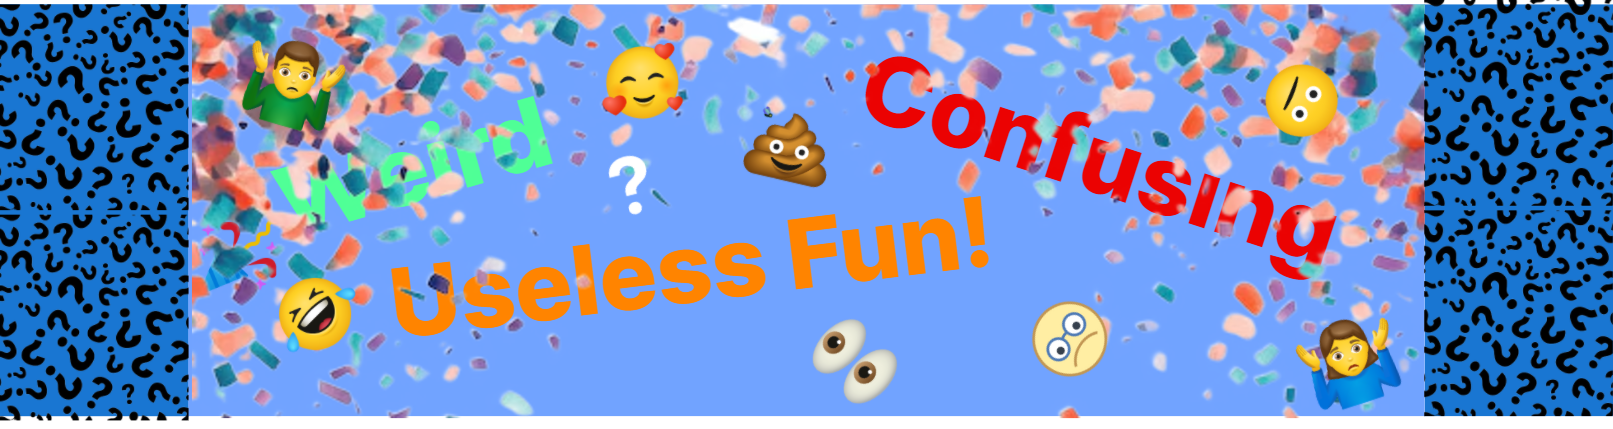
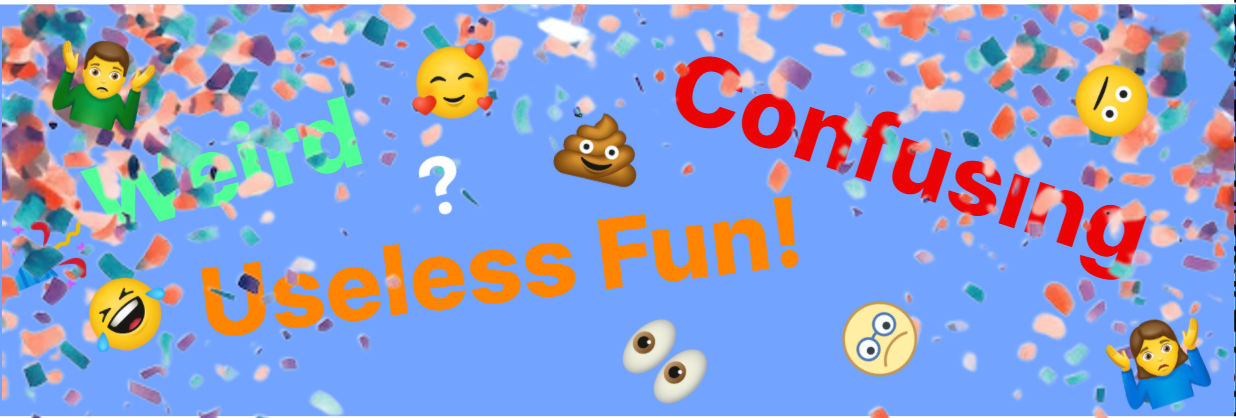
small update

diff --git a/index.html b/index.html
@@ -4,13 +4,14 @@
     <title>Random & Confusing</title> 
     <script src=""></script>
     <link href = "styles/style1.css" rel ="stylesheet" type = 'text/css'/>
+    <link href = "styles/home.css" rel ="stylesheet" type = 'text/css'/>
     <script src = 'javascript/test.js' type = "text/javascript"></script>
     <script src = 'javascript/bar.js' type = "text/javascript"></script>
 </head> 
 <body id = "body"> 
 <main>
     <header>
-        <img src = 'images/title.png' style = "width:100%;">
+        <img src = 'images/title.png' style = "width:101%; margin-top: -1rem; margin-bottom: 0.2rem; margin-left: -0.5rem; margin-right: -0.5rem;">
     </header>
 
     <e id = 'TOP_BAR'>
@@ -21,9 +22,14 @@
         </video>
     <div class = 'container'> 
 <center>
-    <h1>beans</h1>
+
+    <div style ="background-color: rgba(255, 255, 255, 0.3); width: 70%; height: 20%; border-width: 100px;
+    border-color: rgba(255, 255, 255, 255); border-radius: 10px;">
+    <h1>WELCOME!</h1>
+    <p>This website has absoulutly no reason to exist... but it does</p>
+    </div>
+
     <div class="container">
-        <h3>PROGRESS BAR</h3>
         <div class="progress">
             <p class="counter">0%</p>
             <div class="bar"></div>

diff --git a/javascript/riot.js b/javascript/riot.js
@@ -180,6 +180,8 @@ function end_game(winner = 1){
 
     el.innerText = end_text;
 
+    document.getElementById('restart').style.visibility =  'visible';
+
 }
 
 
@@ -336,6 +338,23 @@ function start_game(){
     input();
 
     document.getElementById('start_button').style.visibility =  'hidden';
+
+    game_started = true;
+}
+
+function restart_game(){
+    document.getElementById('restart').style.visibility =  'hidden';
+    scores[1]  = 0;
+    scores[2]  = 0;
+    score_board.text(scores[1].toString() + ("\xa0".repeat(50)) + scores[2].toString());
+    var el = document.getElementById('winner_screen');
+    el.style.visibility = 'hidden';
+    //[400, 140]
+    //[1000, 140]
+    player1.pos.x = 400;
+    player1.pos.y = 140;
+    player2.pos.x = 1000;
+    player2.pos.y = 140;
 
     game_started = true;
 }

diff --git a/free_vbucks.html b/free_vbucks.html
@@ -22,11 +22,13 @@
         </div>
     </center>
 
+
     <center>
+        <p style = "position: absolute; left: 40%;">use 'A' and 'D' to move the bar left and right</p>
         <div class = 'triangle'></div>
     </center>
 
-    <script>set_bar(); do_physics();  start_bar();</script>
+    <script>set_bar(); do_physics(); start_bar();</script>
 </body> 
 </main>
 </html> 

diff --git a/styles/style1.css b/styles/style1.css
@@ -42,8 +42,9 @@ h1 {
 .download_button{
     width: 800px;
     height: 800px;
-    background-image: url("../images/free_icecream.jpg");
-    background-repeat:round;
+    background-image: url("../images/sus.png");
+    background-color: rgba(0, 0, 0, 0);
+    background-repeat: round;
     border: none;
     animation-name: download_animation;
 }

diff --git a/styles/riot.css b/styles/riot.css
@@ -80,3 +80,16 @@ body{
     width: 0px;
 }
 
+.retry{
+    width: 60px;
+    height: 60px;
+    position: absolute;
+    background-image: url('../images/retry.png');
+    background-size: contain;
+    background-color: rgba(0, 0, 0, 0);
+    border: none;
+    left: 48%;
+    top: 58%;
+    visibility: hidden;
+}
+

diff --git a/free_riot_points.html b/free_riot_points.html
@@ -26,6 +26,7 @@
     </e>
 
     <button onclick = "start_game()" class = 'start_button' id = 'start_button'>START!</button>
+    <button onclick = "restart_game()" class = 'retry', id = 'restart'></button>
 
     <script>
         set_bar(); 

diff --git a/styles/vbucks.css b/styles/vbucks.css
@@ -4,7 +4,7 @@
     border-bottom: 100px solid #000000;
     background-color: rgba(255, 255, 255, 0);
     position: absolute;
-    left: 47.5%;
+    left: 46.5%;
     margin-top: 15rem;
 }
 

diff --git a/styles/home.css b/styles/home.css
@@ -1,0 +1,9 @@
+body{
+    background-image: url("../images/bg1.jpg");
+    background-repeat:no-repeat;
+    background-position-y: 30rem;
+}
+
+html{
+    overflow-x:hidden;
+}

diff --git a/styles/engine.css b/styles/engine.css
@@ -1,3 +1,8 @@
+html{
+    overflow:hidden;
+}
+
+
 .entity{
     height: 100px;
     width: 100px;
